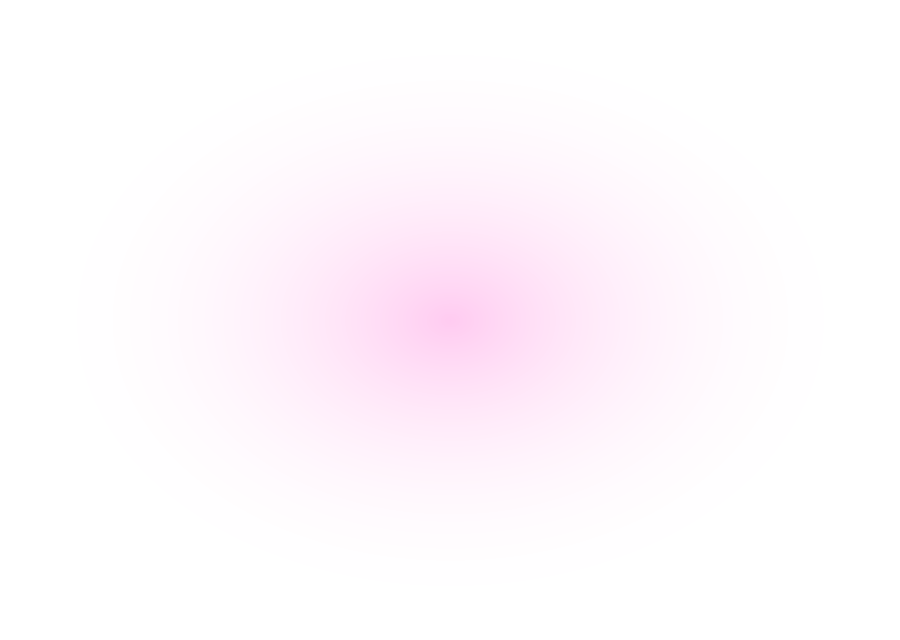
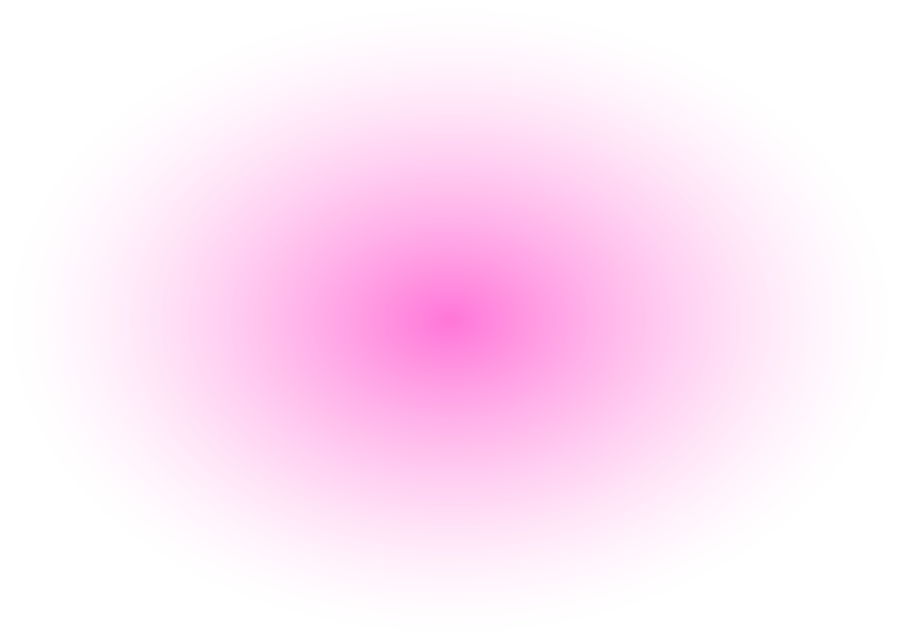
동행 구하기로 제목 변경과 글쓰기 버튼 축소, 홈 맨 아래 무대 일러스트 삭제, 배너 분홍 번짐 강화, 탭 제목 영역 여백 확대

diff --git a/src/components/TabHero.tsx b/src/components/TabHero.tsx
@@ -24,14 +24,14 @@ type Props = {
 // 탭 화면 맨 위의 하늘색 제목 띠: 제목과 소개 글, 오른쪽의 장식 그림, 아래쪽 물결 (홈의 하늘색 물결과 같은 모양)
 export function TabHero({ title, subtitle, decor, decorWidth = 96, decorAspect = 1, action, bleed = spacing.md, children }: Props) {
   const { width } = useWindowDimensions();
-  const waveHeight = Math.round((width * 200) / 1920) * 1.3;
+  const waveHeight = Math.round((width * 200) / 1920) * 1.5;
 
   return (
     <View style={{ marginHorizontal: -bleed }}>
       <View style={[styles.band, { paddingHorizontal: bleed }]}>
         <Image
           source={decor}
-          style={{ position: 'absolute', right: bleed - 4, top: 6, width: decorWidth, height: decorWidth * decorAspect }}
+          style={{ position: 'absolute', right: bleed - 4, top: 14, width: decorWidth, height: decorWidth * decorAspect }}
           contentFit="contain"
           pointerEvents="none"
         />
@@ -48,12 +48,12 @@ export function TabHero({ title, subtitle, decor, decorWidth = 96, decorAspect =
         ) : null}
         {children}
       </View>
-      <Image source={require('../../assets/images/decor/sky-wave-bottom.svg')} style={{ width, height: waveHeight, marginTop: -1 }} contentFit="fill" />
+      <Image source={require('../../assets/images/decor/sky-wave-bottom.svg')} style={{ width, height: waveHeight, marginTop: -1, marginBottom: spacing.xs }} contentFit="fill" />
     </View>
   );
 }
 
 const styles = StyleSheet.create({
-  band: { gap: 6, paddingTop: spacing.md, paddingBottom: spacing.xs, backgroundColor: colors.sky },
+  band: { gap: 8, paddingTop: spacing.lg, paddingBottom: spacing.sm, backgroundColor: colors.sky },
   titleRow: { flexDirection: 'row', alignItems: 'center', gap: spacing.sm },
 });

diff --git a/src/components/home/CommunitySection.tsx b/src/components/home/CommunitySection.tsx
@@ -29,7 +29,7 @@ export function CommunitySection() {
 
   return (
     <View style={styles.section}>
-      <SectionHeader title="동행 구하는 커뮤니티" eyebrow="TOGETHER" highlight="동행" onPressMore={() => router.push('/community')} />
+      <SectionHeader title="동행 구하기" eyebrow="TOGETHER" highlight="동행" onPressMore={() => router.push('/community')} />
       <AppText size={15} color={colors.textSecondary} style={styles.desc}>
         같은 공연 가는 사람을 찾아보세요.
       </AppText>
@@ -42,7 +42,7 @@ export function CommunitySection() {
           posts.map((post, i) => <PostBubble key={post.id} post={post} flip={i % 2 === 1} />)
         )}
         <Pressable onPress={handleWrite} style={({ pressed }) => [styles.write, pressed && styles.writePressed]} accessibilityRole="button">
-          <AppText weight="bold" size={16} color={colors.white}>
+          <AppText weight="bold" size={14} color={colors.white}>
             동행 글 쓰기
           </AppText>
         </Pressable>
@@ -56,5 +56,6 @@ const styles = StyleSheet.create({
   desc: { paddingHorizontal: spacing.md },
   list: { gap: spacing.md, paddingHorizontal: spacing.md, marginTop: spacing.xs },
   writePressed: { backgroundColor: colors.brandStrong },
-  write: { height: 52, borderRadius: radius.pill, backgroundColor: colors.brand, alignItems: 'center', justifyContent: 'center' },
+  // 작은 알약 버튼 (화면 가운데)
+  write: { alignSelf: 'center', height: 40, paddingHorizontal: 22, borderRadius: radius.pill, backgroundColor: colors.brand, alignItems: 'center', justifyContent: 'center', marginTop: spacing.xs },
 });

diff --git a/src/components/HeroSection.tsx b/src/components/HeroSection.tsx
@@ -111,7 +111,7 @@ export function HeroSection() {
       {/* 배너: 포스터 뒤의 은은한 분홍 번짐 */}
       <Image
         source={require('../../assets/images/decor/hero-glow.webp')}
-        style={[styles.glow, { width: width * 1.5, height: cardHeight * 1.2, left: -width * 0.25 }]}
+        style={[styles.glow, { width: width * 1.9, height: cardHeight * 1.5, left: -width * 0.45 }]}
         contentFit="fill"
         pointerEvents="none"
       />
@@ -224,7 +224,7 @@ export function HeroSection() {
 
 const styles = StyleSheet.create({
   hero: { paddingBottom: HERO_BOTTOM, overflow: 'hidden' },
-  glow: { position: 'absolute', top: 120 },
+  glow: { position: 'absolute', top: 90 },
   topBar: {
     flexDirection: 'row',
     alignItems: 'center',

diff --git a/src/app/(tabs)/index.tsx b/src/app/(tabs)/index.tsx
@@ -78,11 +78,6 @@ export default function HomeScreen() {
         <PrepSection />
         <CommunitySection />
 
-        <Image
-          source={require('../../../assets/images/decor/stage.webp')}
-          style={{ width: width * 0.8, height: (width * 0.8 * 660) / 1618, alignSelf: 'center' }}
-          contentFit="contain"
-        />
       </View>
     </ScrollView>
   );
